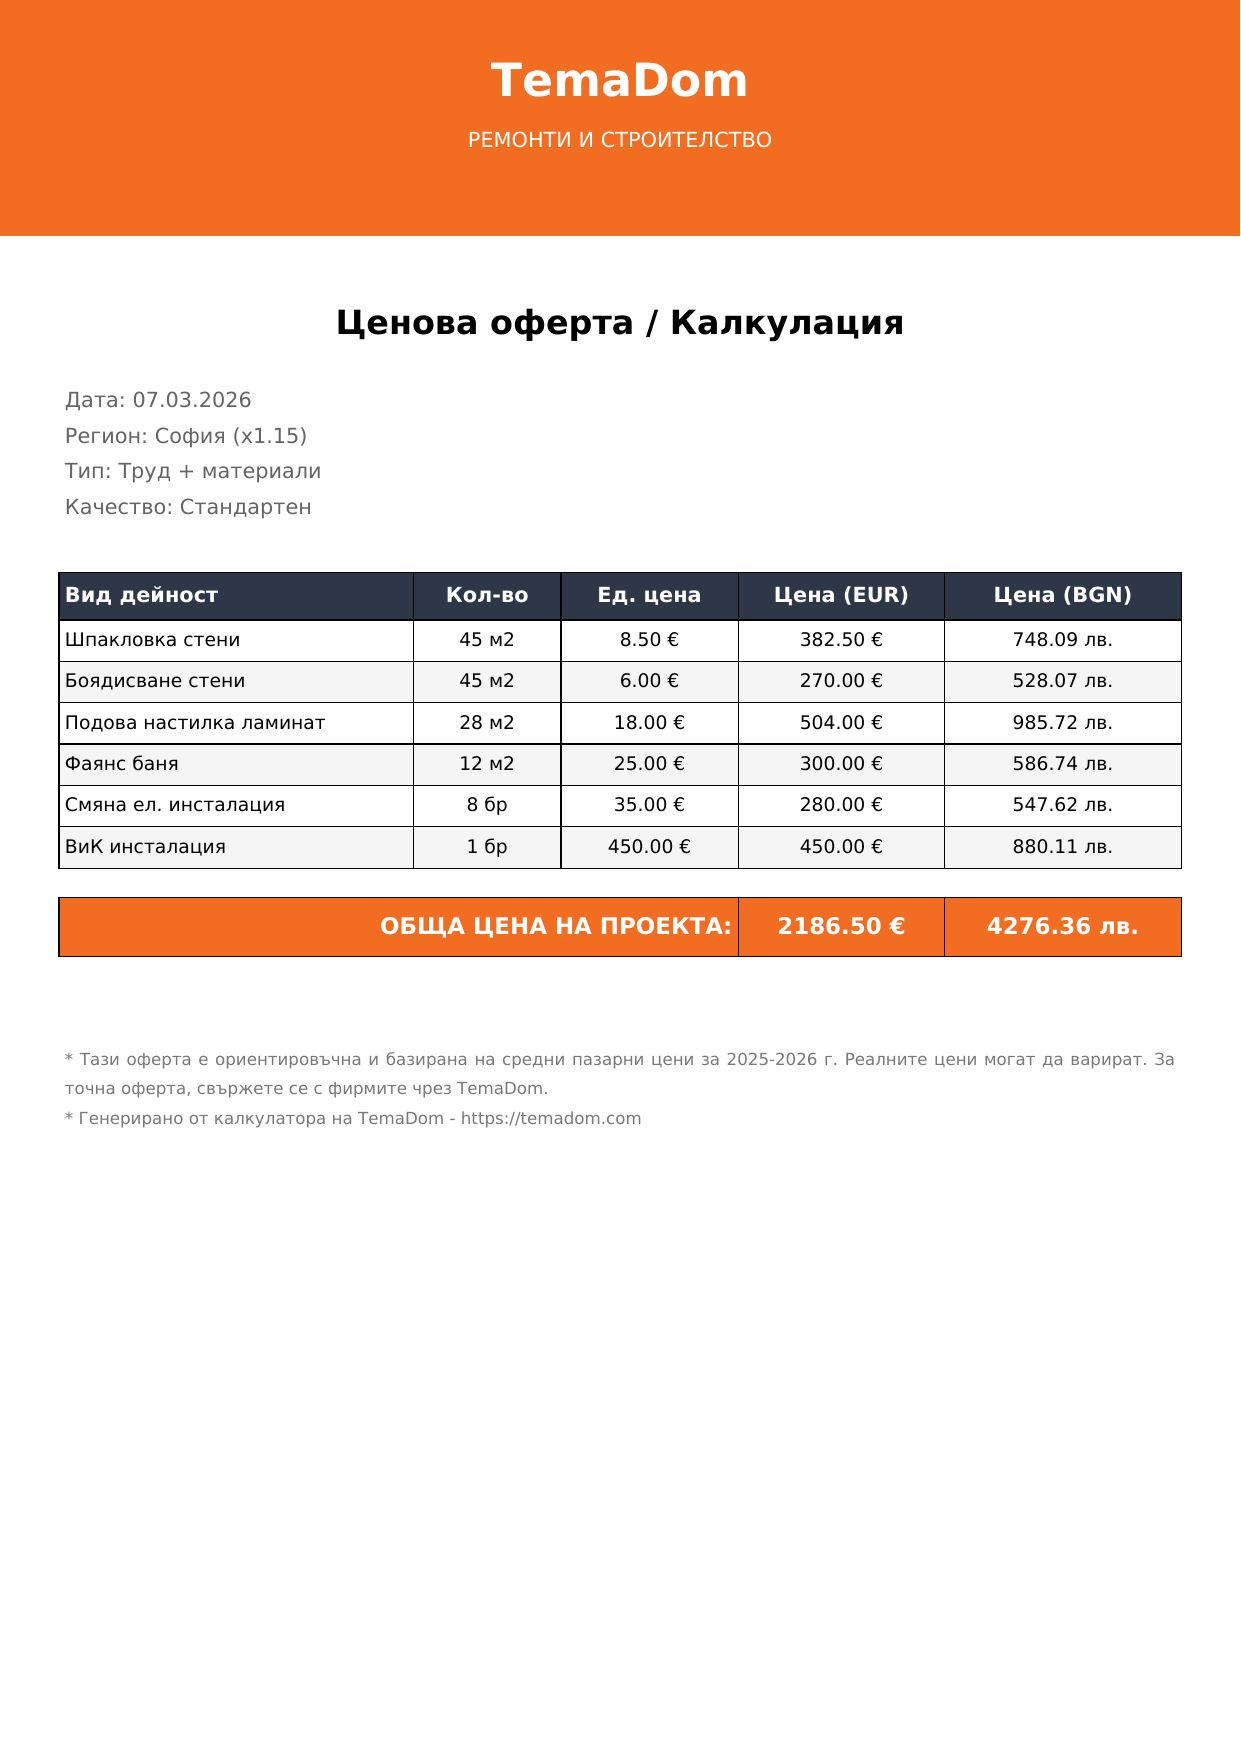
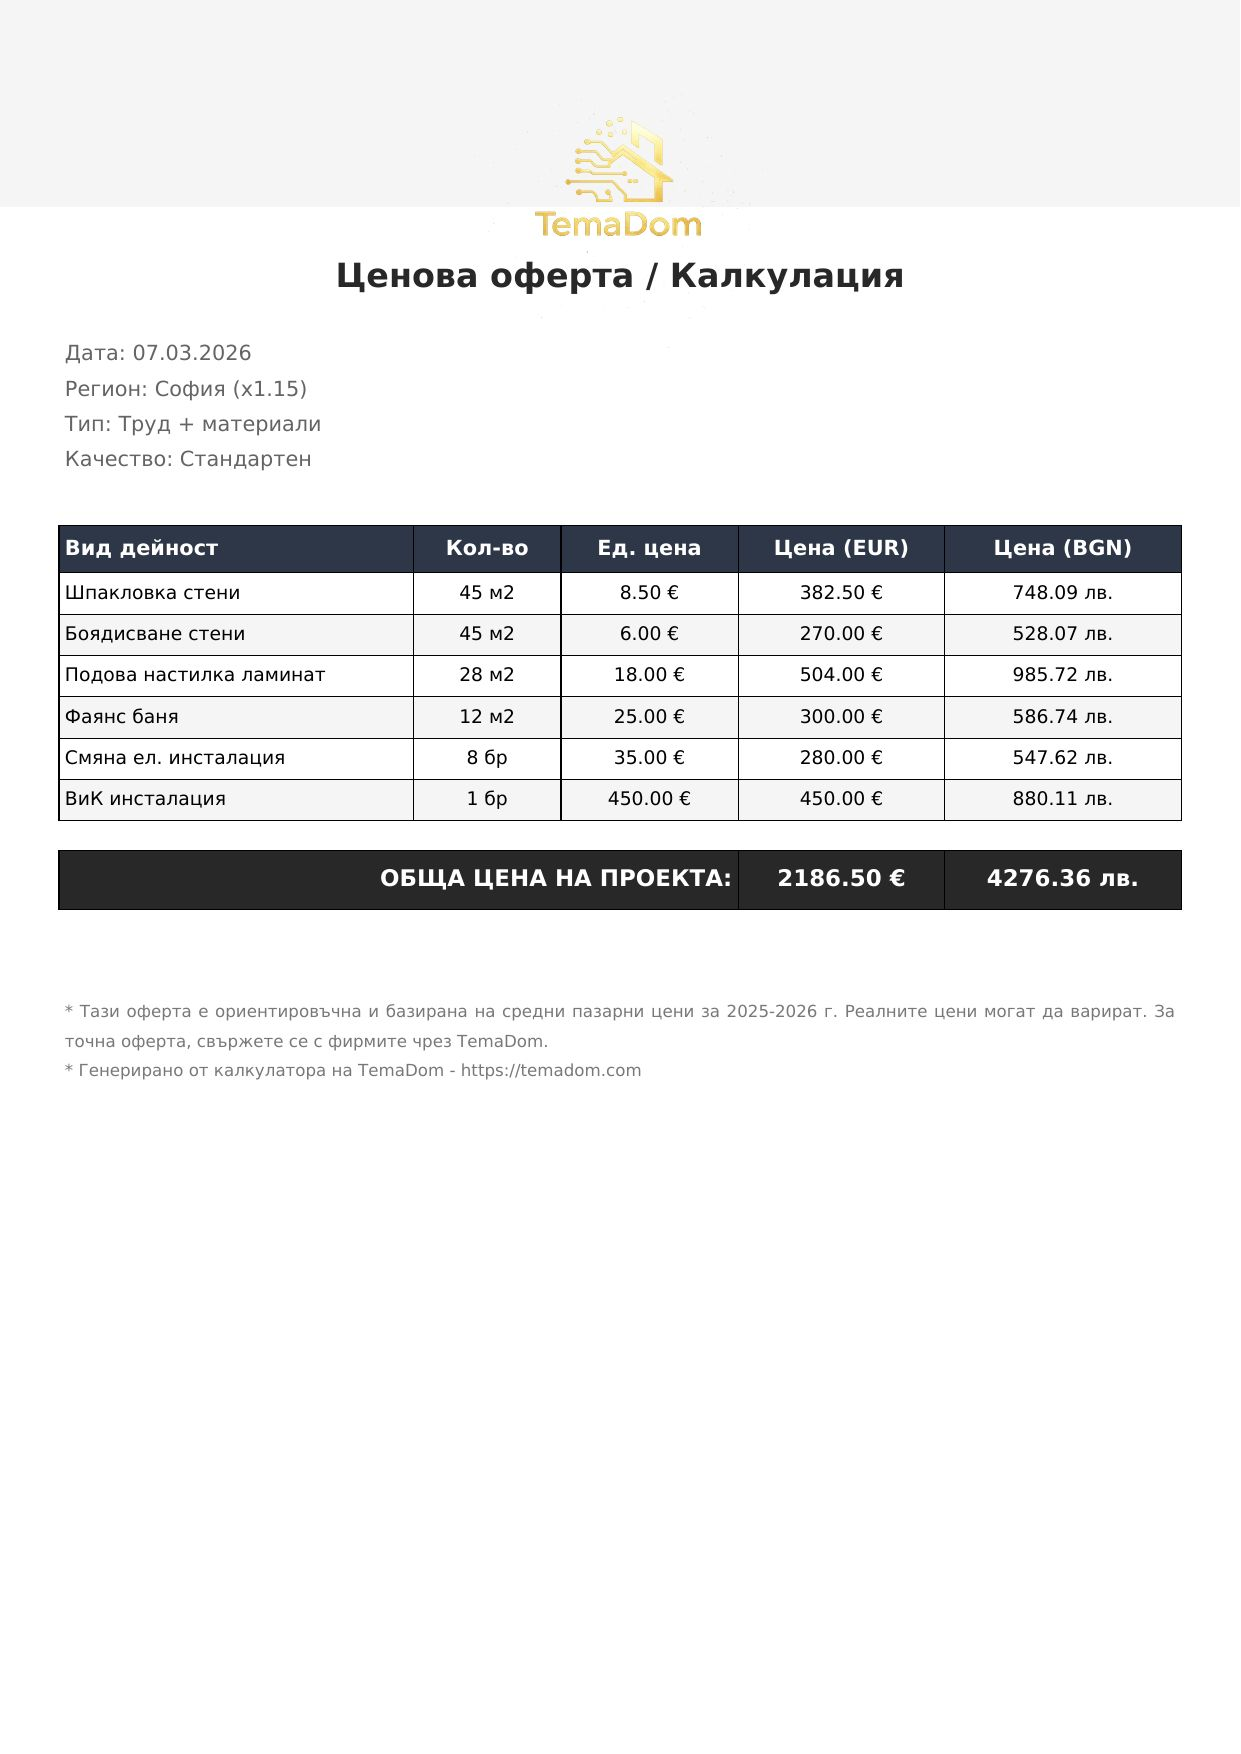
auto-commit for 590a9194-1f6b-4c82-93fb-72b54d342e95

Changed region(s): [[0.0306, 0.1847, 0.9799, 0.5542], [0.0, 0.0, 1.0, 0.2155], [0.0612, 0.5849, 0.5205, 0.6465]]

diff --git a/frontend/src/App.js b/frontend/src/App.js
@@ -988,10 +988,8 @@ const LandingPage = () => {
             </button>
             <button onClick={() => navigate('/ai-sketch')} data-testid="hero-sketch-btn"
               className="relative px-8 py-4 rounded-xl text-lg font-bold transition-all hover:scale-105 hover:-translate-y-1 active:scale-95 btn-gold">
-              <span className="absolute -top-3 -right-2 bg-gradient-to-r from-[#8C56FF] to-[#6D3FC4] text-white text-[9px] font-black px-2.5 py-0.5 rounded-full tracking-wider shadow-lg" style={{ filter: 'drop-shadow(0 0 6px rgba(140,86,255,0.5))' }}>
-                PRO TOOL
-              </span>
               <FileText className="mr-2 h-5 w-5 inline" /> CAD Скица
+              <span className="block text-xs font-medium mt-1 opacity-80">Инструмент за професионалисти</span>
             </button>
           </div>
 
@@ -4149,7 +4147,7 @@ const SubscriptionsPage = () => {
         <div className="grid md:grid-cols-3 gap-4 max-w-3xl">
           {[
             { name: '1 помещение', price: '69 EUR', features: ['3 снимки → 3D рендери', 'Бюджет + линкове', 'Списък материали', 'ПРЕДИ/СЛЕД сравнение'] },
-            { name: '2 помещения', price: '129 EUR', features: ['2 видеа → 8 ъгъла', 'PDF за всяко помещение', 'Обща сметка', 'ПРЕДИ/СЛЕД за всяка стая'], popular: true },
+            { name: '2 помещения', price: '119 EUR', features: ['2 видеа → 8 ъгъла', 'PDF за всяко помещение', 'Обща сметка', 'ПРЕДИ/СЛЕД за всяка стая'], popular: true },
             { name: 'Апартамент', price: '199 EUR', features: ['До 5 видеа → 20 ъгъла', 'PDF за всяко помещение', 'Пълна сметка + 3D', 'Приоритетна обработка'] },
           ].map((plan, i) => (
             <Card key={i} className={`relative ${plan.popular ? 'border-[#F97316] bg-[#F97316]/5' : ''}`} style={!plan.popular ? { background: 'var(--theme-card-bg)', border: '1px solid var(--theme-border)' } : {}}>

diff --git a/backend/server.py b/backend/server.py
@@ -1406,19 +1406,25 @@ async def generate_calculator_pdf(data: dict):
     except Exception:
         font_name = "Helvetica"
     
-    # Header
-    pdf.set_fill_color(242, 109, 33)  # Orange
-    pdf.rect(0, 0, 210, 40, 'F')
-    pdf.set_text_color(255, 255, 255)
-    pdf.set_font(font_name, 'B', 22)
-    pdf.set_y(8)
-    pdf.cell(0, 12, "TemaDom", ln=True, align='C')
-    pdf.set_font(font_name, '', 10)
-    pdf.cell(0, 8, "РЕМОНТИ И СТРОИТЕЛСТВО", ln=True, align='C')
+    # Header - Clean design with logo
+    # Light gray background strip
+    pdf.set_fill_color(245, 245, 245)
+    pdf.rect(0, 0, 210, 35, 'F')
+    
+    # Add logo
+    import os
+    logo_path = os.path.join(os.path.dirname(os.path.dirname(__file__)), "frontend", "public", "logo-temadom.png")
+    if os.path.exists(logo_path):
+        pdf.image(logo_path, x=75, y=3, w=60)
+    else:
+        pdf.set_text_color(40, 40, 40)
+        pdf.set_font(font_name, 'B', 22)
+        pdf.set_y(8)
+        pdf.cell(0, 12, "TemaDom", ln=True, align='C')
     
     # Title
-    pdf.set_text_color(0, 0, 0)
-    pdf.set_y(50)
+    pdf.set_text_color(40, 40, 40)
+    pdf.set_y(42)
     pdf.set_font(font_name, 'B', 16)
     pdf.cell(0, 10, "Ценова оферта / Калкулация", ln=True, align='C')
     
@@ -1479,7 +1485,7 @@ async def generate_calculator_pdf(data: dict):
     
     # Total row
     pdf.ln(5)
-    pdf.set_fill_color(242, 109, 33)
+    pdf.set_fill_color(40, 40, 40)
     pdf.set_text_color(255, 255, 255)
     pdf.set_font(font_name, 'B', 11)
     total_bgn = total * 1.9558
@@ -3720,47 +3726,63 @@ async def export_cad_contract(request: Request):
 
     buf = io.BytesIO()
     doc = SimpleDocTemplate(buf, pagesize=A4, topMargin=25*mm, bottomMargin=25*mm, leftMargin=25*mm, rightMargin=25*mm)
+    
+    # Register DejaVu font for Cyrillic support
+    from reportlab.pdfbase import pdfmetrics
+    from reportlab.pdfbase.ttfonts import TTFont
+    font_path = "/usr/share/fonts/truetype/dejavu/DejaVuSans.ttf"
+    bold_font_path = "/usr/share/fonts/truetype/dejavu/DejaVuSans-Bold.ttf"
+    try:
+        pdfmetrics.registerFont(TTFont('DejaVu', font_path))
+        pdfmetrics.registerFont(TTFont('DejaVu-Bold', bold_font_path))
+        from reportlab.lib.fonts import addMapping
+        addMapping('DejaVu', 0, 0, 'DejaVu')
+        addMapping('DejaVu', 1, 0, 'DejaVu-Bold')
+        base_font = 'DejaVu'
+    except Exception:
+        base_font = 'Helvetica'
+    
     styles = getSampleStyleSheet()
-    title_s = ParagraphStyle('CTitle', parent=styles['Title'], fontSize=16, spaceAfter=12)
-    h2_s = ParagraphStyle('CH2', parent=styles['Heading2'], fontSize=12, spaceAfter=8, spaceBefore=12)
-    body_s = ParagraphStyle('CBody', parent=styles['Normal'], fontSize=10, spaceAfter=4, leading=14)
+    title_s = ParagraphStyle('CTitle', parent=styles['Title'], fontName=f'{base_font}-Bold' if base_font == 'DejaVu' else 'Helvetica-Bold', fontSize=16, spaceAfter=12)
+    h2_s = ParagraphStyle('CH2', parent=styles['Heading2'], fontName=f'{base_font}-Bold' if base_font == 'DejaVu' else 'Helvetica-Bold', fontSize=12, spaceAfter=8, spaceBefore=12)
+    body_s = ParagraphStyle('CBody', parent=styles['Normal'], fontName=base_font, fontSize=10, spaceAfter=4, leading=14)
 
     story = []
-    story.append(Paragraph("DOGOVOR ZA STROITELSTVO", title_s))
-    story.append(Paragraph(f"Dnes, {today} g., mezhdu:", body_s))
+    story.append(Paragraph("ДОГОВОР ЗА СТРОИТЕЛСТВО", title_s))
+    story.append(Paragraph(f"Днес, {today} г., между:", body_s))
     story.append(Spacer(1, 6))
-    story.append(Paragraph(f"<b>IZPALNITEL:</b> {company_name}, BULSTAT: {company_bulstat}", body_s))
-    story.append(Paragraph(f"<b>VAZLOZHITEL:</b> {client_name}, EGN/BULSTAT: {client_egn}", body_s))
-    story.append(Paragraph(f"<b>Adres na obekta:</b> {address}", body_s))
+    story.append(Paragraph(f"<b>ИЗПЪЛНИТЕЛ:</b> {company_name}, БУЛСТАТ: {company_bulstat}", body_s))
+    story.append(Paragraph(f"<b>ВЪЗЛОЖИТЕЛ:</b> {client_name}, ЕГН/БУЛСТАТ: {client_egn}", body_s))
+    story.append(Paragraph(f"<b>Адрес на обекта:</b> {address}", body_s))
     story.append(Spacer(1, 8))
-    story.append(Paragraph("se skluchi nastoyashtiyat dogovor za slednoeto:", body_s))
+    story.append(Paragraph("се сключи настоящият договор за следното:", body_s))
 
-    story.append(Paragraph("I. PREDMET NA DOGOVORA", h2_s))
-    story.append(Paragraph(f"1. Izpalnitelyat se zadulzhava da izvurshi: {description}", body_s))
-    story.append(Paragraph("2. Rabotite se izvurshvat soglasno prilozhena kolichestvena smetka (Prilozhenie 1).", body_s))
+    story.append(Paragraph("I. ПРЕДМЕТ НА ДОГОВОРА", h2_s))
+    story.append(Paragraph(f"1. Изпълнителят се задължава да извърши: {description}", body_s))
+    story.append(Paragraph("2. Работите се извършват съгласно приложена количествена сметка (Приложение 1).", body_s))
 
-    story.append(Paragraph("II. CENA I PLASHTANE", h2_s))
-    story.append(Paragraph(f"3. Obshta stoinost: <b>{total_eur} EUR ({total_bgn} BGN)</b>.", body_s))
-    story.append(Paragraph("4. Plashtaneto se izvurshva na tri chasti: 30% avans, 40% pri 50% gotovnost, 30% pri priemane.", body_s))
+    story.append(Paragraph("II. ЦЕНА И ПЛАЩАНЕ", h2_s))
+    story.append(Paragraph(f"3. Обща стойност: <b>{total_eur} EUR ({total_bgn} BGN)</b>.", body_s))
+    story.append(Paragraph("4. Плащането се извършва на три части: 30% аванс, 40% при 50% готовност, 30% при приемане.", body_s))
 
-    story.append(Paragraph("III. SROK", h2_s))
-    story.append(Paragraph("5. Srokut za izpulnenie e ____________ rabotni dni ot datata na podpisvane.", body_s))
-    story.append(Paragraph("6. Srokut mozhe da bude udulzhen pri loshi vremenni usloviya ili forsmazzhorni obstoyatelstva.", body_s))
+    story.append(Paragraph("III. СРОК", h2_s))
+    story.append(Paragraph("5. Срокът за изпълнение е ____________ работни дни от датата на подписване.", body_s))
+    story.append(Paragraph("6. Срокът може да бъде удължен при лоши климатични условия или форсмажорни обстоятелства.", body_s))
 
-    story.append(Paragraph("IV. GARANTSIYA", h2_s))
-    story.append(Paragraph("7. Izpalnitelyat predostavya garantsiya za izvurshenite raboti v srok ot 5 (pet) godini.", body_s))
+    story.append(Paragraph("IV. ГАРАНЦИЯ", h2_s))
+    story.append(Paragraph("7. Изпълнителят предоставя гаранция за извършените работи в срок от 5 (пет) години.", body_s))
 
-    story.append(Paragraph("V. OTGOVORNOSTI", h2_s))
-    story.append(Paragraph("8. Izpalnitelyat otgovarya za kachestvoto na materialie i izvurshenite raboti.", body_s))
-    story.append(Paragraph("9. Vazlozhitelyat osiguryava dostap do obekta i neobhodimite razreshitelni.", body_s))
+    story.append(Paragraph("V. ОТГОВОРНОСТИ", h2_s))
+    story.append(Paragraph("8. Изпълнителят отговаря за качеството на материалите и извършените работи.", body_s))
+    story.append(Paragraph("9. Възложителят осигурява достъп до обекта и необходимите разрешителни.", body_s))
 
-    story.append(Paragraph("VI. PREKLATIAVANE", h2_s))
-    story.append(Paragraph("10. Dogovorat mozhe da bude preklaten ot vsyaka strana s 14-dnevno pismenno uvedomlenie.", body_s))
+    story.append(Paragraph("VI. ПРЕКРАТЯВАНЕ", h2_s))
+    story.append(Paragraph("10. Договорът може да бъде прекратен от всяка страна с 14-дневно писмено уведомление.", body_s))
 
     story.append(Spacer(1, 25))
-    story.append(Paragraph("IZPALNITEL: ________________________       VAZLOZHITEL: ________________________", body_s))
+    story.append(Paragraph("ИЗПЪЛНИТЕЛ: ________________________       ВЪЗЛОЖИТЕЛ: ________________________", body_s))
     story.append(Spacer(1, 10))
-    story.append(Paragraph(f"Data: {today}", body_s))
+    story.append(Paragraph(f"Дата: {today}", body_s))
 
     doc.build(story)
     buf.seek(0)
